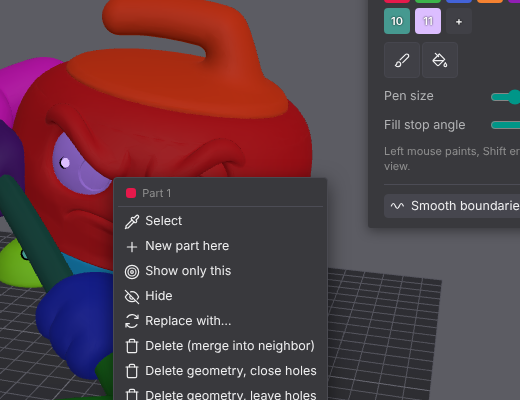
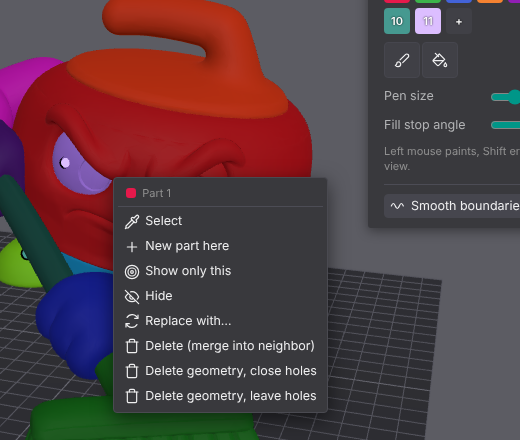
Apply the second review: cut what repeats or proves nothing
- SendSequenceModel: it copies ORCA.save from the page, checks modes users
  can't reach, and the older #102 tests already cover those sends.
- Plugin unit tests in orca-plugin.yml, and golden plus llm-direct in cli.yml:
  npm run check runs them on every PR.
- The permissions test's assertion that pinned the code, and its loop over two
  settings (the AI-set-up case asks for every key).
- Wording rules that never matched anything in the history.
- CLAUDE.md keeps only the release-only checks table.
- Fixes: context-menu.png showed half its last item, real_orca_test read
  ai_naming.json from the machine's temp dir, the heal comment still said
  longest cut, package.json reformat, extra parens, blank lines.

Claude-Session: https://claude.ai/code/session_01FChPq6jwfYcrpuh5tcGzoT

diff --git a/app/main.js b/app/main.js
@@ -510,7 +510,7 @@ function renderHitRow(i) {
 }
 
 // ---------------------------------------------------------------- heal joint
-// part.heal = { r: blend mm }. After the part is moved/rotated, each vertex of its joint loop (longest cut) is pulled
+// part.heal = { r: blend mm }. After the part is moved/rotated, each vertex of its joint loop (the cut it turns at) is pulled
 // to the neighbor's rim (the same loop at its original place) at the same angle about the joint axis; the pull fades
 // to zero over r mm from the cut (cosine falloff), so the part stretches or squeezes to stay flush.
 const healCache = new Map();
@@ -3796,7 +3796,7 @@ $("sessIn").onchange = async () => { const f = $("sessIn").files[0]; if (f) load
 
 // ---------------------------------------------------------------- boot
 document.querySelectorAll("[data-icon]").forEach((b) => setHTML(b, icon(b.dataset.icon), "afterbegin"));
-document.querySelectorAll("[data-icon-span]").forEach((b) => (setHTML(b, icon(b.dataset.iconSpan))));
+document.querySelectorAll("[data-icon-span]").forEach((b) => setHTML(b, icon(b.dataset.iconSpan)));
 new ResizeObserver(resize).observe(view);
 setTool("orbit"); syncSliders(); resize(); llmStatus(); renderRecent(); $("colorMode").classList.toggle("on", byFilament);
 const qp = new URLSearchParams(location.search).get("file");

diff --git a/plugin/test_plugin.py b/plugin/test_plugin.py
@@ -295,12 +295,9 @@ class RegistrationTests(unittest.TestCase):
 
     def test_real_orca_check_can_grant_everything_the_plugin_requests(self):
         import real_orca_test
-        for settings in ({}, {"provider": "openrouter", "providers": {"openrouter": {"api_key": "k"}}}):
-            unknown = set(self.register(settings)[0]) - set(real_orca_test.GRANT_KEYS)
-            self.assertFalse(unknown, f"add {sorted(unknown)} to GRANT_KEYS in real_orca_test.py, "
-                                      "or the real OrcaSlicer check stalls on the permissions prompt")
-        import handoff
-        self.assertEqual(real_orca_test.requested_permissions()["process"], handoff.PROCESSES)
+        unknown = set(self.register({"provider": "openrouter", "providers": {"openrouter": {"api_key": "k"}}})[0]) - set(real_orca_test.GRANT_KEYS)
+        self.assertFalse(unknown, f"add {sorted(unknown)} to GRANT_KEYS in real_orca_test.py, "
+                                  "or the real OrcaSlicer check stalls on the permissions prompt")
 
     def test_window_and_page_share_bridge(self):
         p = load_plugin([fake_orca.FakeObject("cube", [fake_orca.FakeVolume(TET_V, TET_F)])])
@@ -713,83 +710,6 @@ class SendToOrcaTests(unittest.TestCase):
         self.assertTrue(m["warn"])
 
 
-class SendSequenceModel(unittest.TestCase):
-    """Every sequence of Sends, Open as project and deletes, up to DEPTH long, on the real plugin code. #95 broke the
-    second Send after Open as project and after a delete (#102). The page side of step() copies ORCA.save in app/main.js."""
-    DEPTH = 4
-    MODES = ("add", "replace_object", "replace_plate")
-
-    def start(self):
-        self.tmp = tempfile.TemporaryDirectory(); self.store = tempfile.TemporaryDirectory()
-        objs = [fake_orca.FakeObject("cube", []), fake_orca.FakeObject("bolt", [])]
-        p = load_plugin(objs)
-        import orca
-        p.output_dir = lambda: self.tmp.name
-        p._storage[:] = [self.store.name]
-        orca._state["project"] = orca_project([("cube", 0, (50, 50)), ("bolt", 0, (150, 50))])
-        orca._state["project_path"] = "/home/d/prints/desk toy.3mf"
-        handed, sent = [], []
-        p.handoff.send = handed.append
-        p.handoff.supported = lambda: True
-        page = {"src": {"id": objs[1].id(), "index": 1, "name": "bolt"}, "pending": False}
-        return p, orca, p.Bridge(sent.append), sent, handed, page
-
-    def step(self, world, action):
-        p, orca, bridge, sent, handed, page = world
-        names = lambda: [o.name for o in orca.host.model().objects()]
-        if action == "open":
-            if not page["pending"]:
-                return "skip"
-            page["pending"] = False
-            data = Path(handed[-1][0]).read_bytes()
-            orca.host.model()._objs[:] = [fake_orca.FakeObject(n, []) for n in read_3mf(data)[0]]
-            orca._state["project"], orca._state["project_path"] = data, handed[-1][0]
-            return None
-        if action == "delete":
-            i = next((k for k, n in enumerate(names()) if n == "bolt"), None)
-            if i is None:
-                return "skip"
-            objs = orca.host.model().objects(); objs.pop(i)
-            orca.host.model()._objs[:] = objs
-            orca._state["project"] = orca_project([(o.name, 0, (50 + 100 * k, 50)) for k, o in enumerate(objs)])
-            return None
-        before = read_3mf(orca._state["project"])[0]
-        data = base64.b64encode(Project3mfTests.SPLIT).decode()
-        bridge.handle({"cmd": "save", "id": len(sent), "name": "bolt_parts.3mf", "part": 0, "of": 1, "data": data,
-                       "mode": action, "source": page["src"], "single": False})
-        m = sent[-1]
-        if m.get("cmd") != "saved":
-            return f"Send ({action}) failed: {m.get('message')}"
-        page["pending"] = True
-        if m.get("source"):
-            page["src"] = {**page["src"], **m["source"], "id": None}
-        after = read_3mf(Path(handed[-1][0]).read_bytes())[0]
-        if action in ("add", "replace_object") and after.count("cube") != before.count("cube"):
-            return f"Send ({action}) removed cube, which was not the model being split: {before} -> {after}"
-        return None
-
-    def test_every_send_order_works(self):
-        actions = (*self.MODES, "open", "delete")
-        frontier, checked = [()], 0
-        for _ in range(self.DEPTH):
-            nxt = []
-            for seq in frontier:
-                for a in actions:
-                    run, world = seq + (a,), self.start()
-                    try:
-                        errs = [self.step(world, x) for x in run]
-                    finally:
-                        self.tmp.cleanup(); self.store.cleanup()
-                    if "skip" in errs:
-                        continue
-                    bad = next((k for k, e in enumerate(errs) if e), None)
-                    if bad is not None:
-                        self.fail(f"After {' -> '.join(run[:bad + 1])}: {errs[bad]}")
-                    checked += 1
-                    nxt.append(run)
-            frontier = nxt
-        self.assertGreaterEqual(checked, 400)
-
 class ReleaseNotesTests(unittest.TestCase):
     def test_release_please_notes_become_plain_lines(self):
         from release_notes import plain_changelog
@@ -804,8 +724,6 @@ class ReleaseNotesTests(unittest.TestCase):
     def test_plain_lines_pass_through(self):
         from release_notes import plain_changelog
         self.assertEqual(plain_changelog("- Faster splitting\n- Fix crash"), "- Faster splitting\n- Fix crash")
-
-
 
 
 if __name__ == "__main__":

diff --git a/plugin/real_orca_test.py b/plugin/real_orca_test.py
@@ -39,7 +39,7 @@ GRANT_KEYS = {"fs_readwrite": "fs_readwrite", "process": "process", "network": "
 
 def requested_permissions():
     import importlib.util
-    fake_orca.install([])
+    fake_orca.install([], storage=tempfile.mkdtemp())
     import orca
     spec = importlib.util.spec_from_file_location("mesh_splitter_plugin", HERE / "plugin.py")
     mod = importlib.util.module_from_spec(spec)

diff --git a/CLAUDE.md b/CLAUDE.md
@@ -4,21 +4,12 @@ Run `npm run check` before you push. It is the same command the Checks workflow 
 
 The slow checks run only on the Release Please PR: the plugin end-to-end test (`plugin/e2e.mjs`), the real OrcaSlicer test (`plugin/real_orca_test.py`), the site CSP in a browser (`test/csp.browser.mjs`) and the command line binaries.
 
-## Rules and what enforces them
-
-When a rule here is broken again, encode it in a check and change its row. Don't add another sentence.
+## Release-only checks
 
 | Rule | Enforced by |
 | --- | --- |
-| Every action in a workflow points at a tag or branch that exists | `test/workflows.test.mjs` |
-| The real OrcaSlicer test grants every permission the plugin requests | `real_orca_test.requested_permissions()` reads them from `plugin.py`; `test_real_orca_check_can_grant_everything_the_plugin_requests` |
-| American English, and never describe the tool as for AI-made models | `test/wording.test.mjs` | <!-- wording-ok: names the banned phrase -->
-| The app writes markup only through `setHTML` with an `html` template, which escapes every value | `app/html.js`, `test/html.test.mjs` |
-| The site's CSP allows everything the page loads | `test/csp.browser.mjs`: Chromium reports no CSP violation (release PR only) |
-| The plugin wheel has no encoded blobs and no huge `.py` (OrcaCloud rates those Medium) | `review_risks` in `plugin/build.py` |
-| Send to Orca works after any order of sends, Open as project and deletes | `SendSequenceModel` in `plugin/test_plugin.py` |
-| Moving a part shows the gap by default and Fill/Anchor stay closed | `plugin/e2e.mjs` (release PR only) |
-| Forks build as "Mesh Splitter (unofficial copy)"; the license ships in the wheel | `BuildTests` |
+| The site's CSP allows everything the page loads | `test/csp.browser.mjs`: Chromium reports no CSP violation |
+| Moving a part shows the gap by default and Fill/Anchor stay closed | `plugin/e2e.mjs` |
 
 ## Judgment calls nothing checks
 
